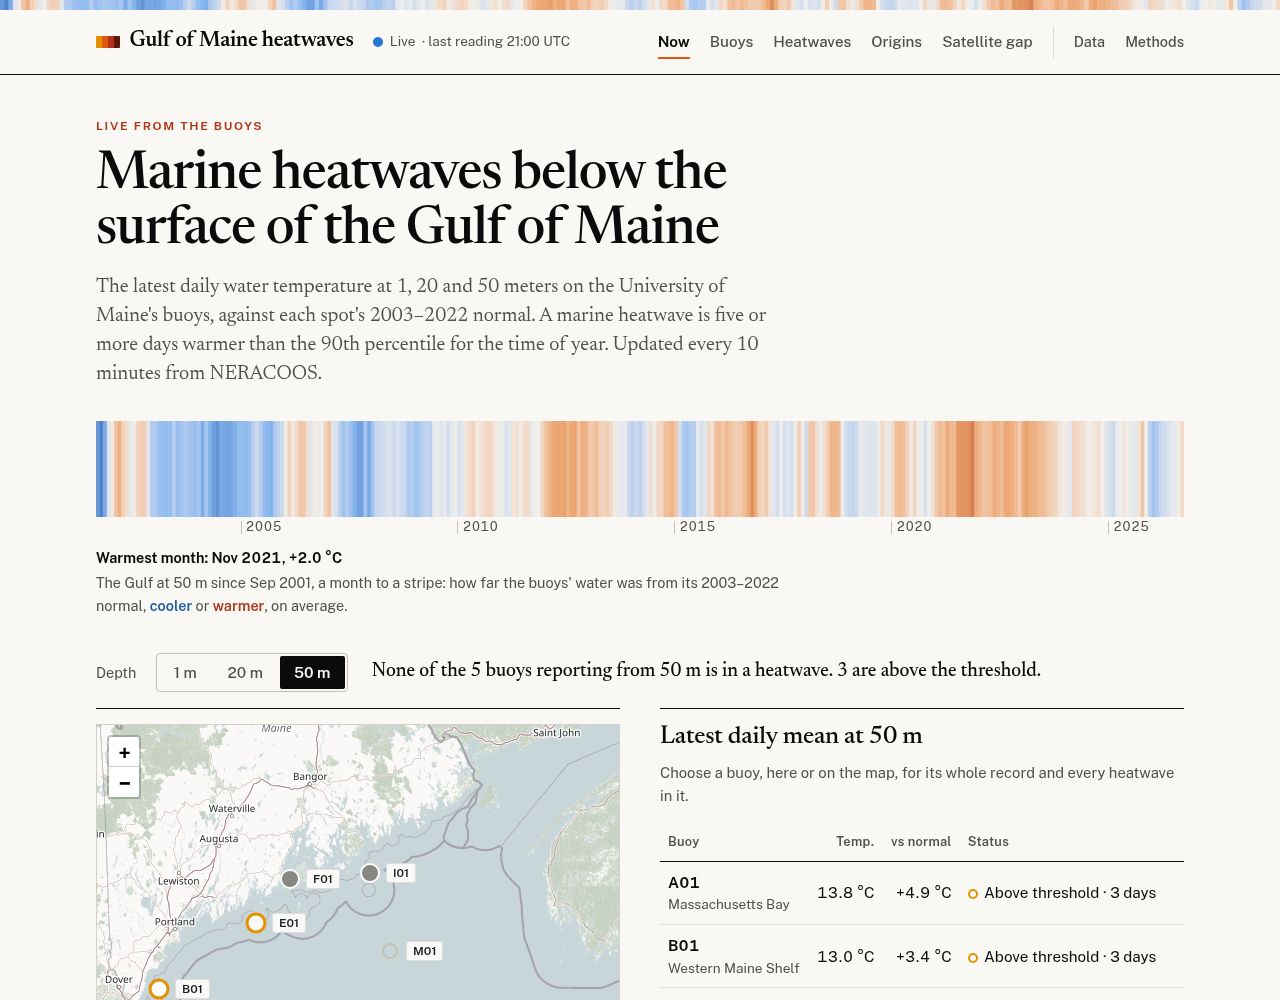
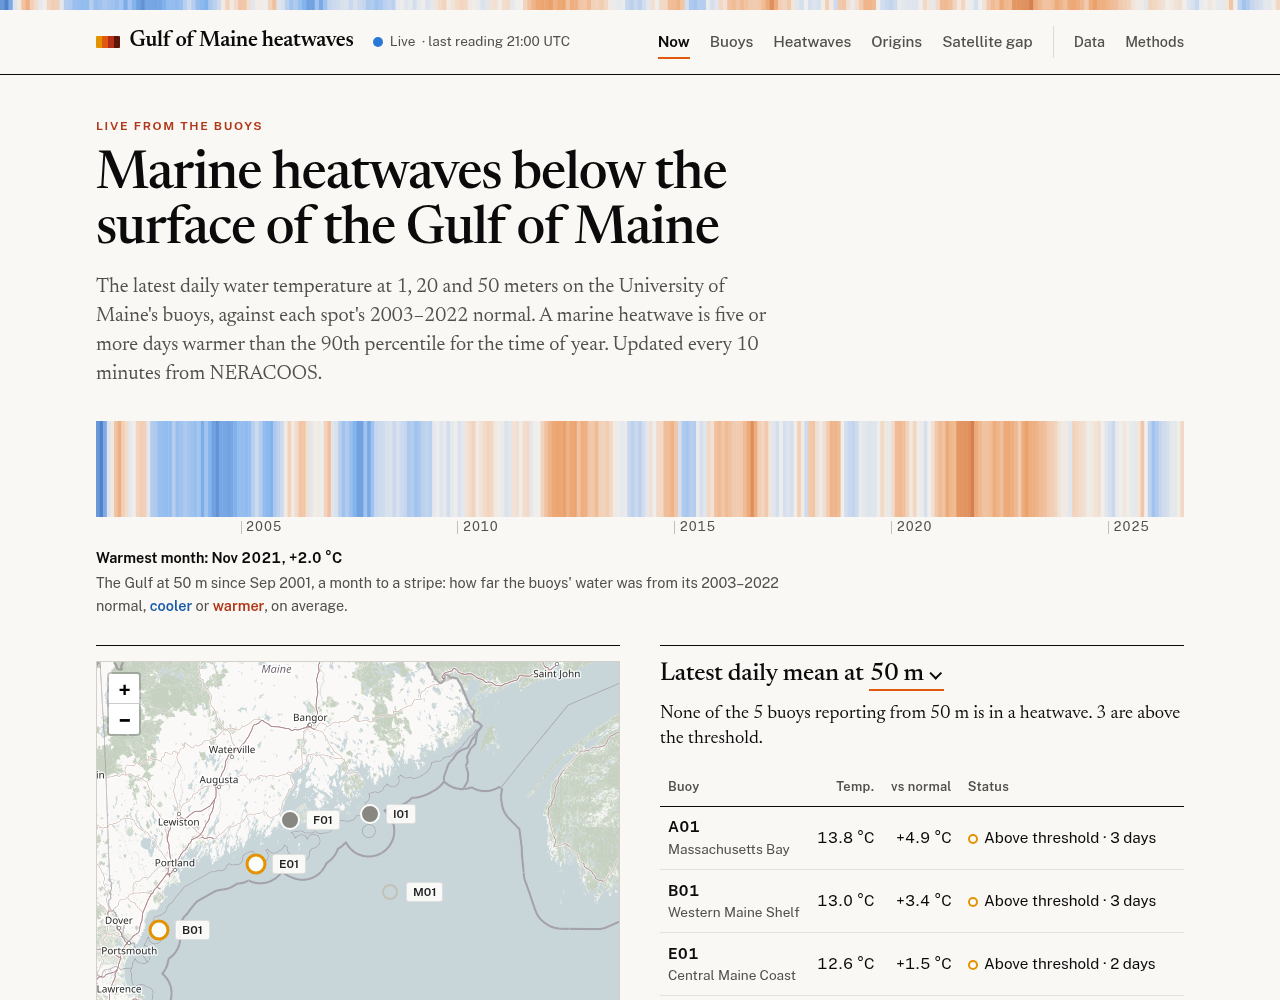
Now and Origins: choose the depth in the titles
The depth buttons above each page become a select inside the titles:
"Latest daily mean at [1 m]", "Heatwaves at [50 m] each year, by origin" and
"Every heatwave at [50 m] in [2021]", the year chosen the same way. The select
takes the title's type, underlined in the accent with a chevron, and sizes
to its choice. On Now, the line on how many buoys are in a heatwave moves
under the title, in place of the note on choosing a buoy.

diff --git a/frontend/src/pages/OriginsPage.tsx b/frontend/src/pages/OriginsPage.tsx
@@ -2,6 +2,7 @@ import { useCallback } from "react";
 import { Link, useSearchParams } from "react-router";
 
 import { useBuoys, useEvents, useOriginRules } from "../api/queries";
+import { InlineSelect } from "../components/InlineSelect";
 import { OriginsByYear } from "../components/OriginsByYear";
 import { YearByBuoy } from "../components/YearByBuoy";
 import { latest } from "../lib/dates";
@@ -38,6 +39,13 @@ export function OriginsPage() {
     [setParams],
   );
   const selectYear = useCallback((y: number) => update({ year: y }), [update]);
+  // Both titles choose the depth, each in its own words.
+  const depthChoice = {
+    label: "Depth",
+    value: depth,
+    options: depths.map((d) => ({ value: d, label: `${d} m` })),
+    onChange: (d: number) => update({ depth: d }),
+  };
 
   return (
     <>
@@ -52,19 +60,10 @@ export function OriginsPage() {
         </p>
       </section>
 
-      <div className="filters" role="group" aria-label="Depth">
-        <span className="filter-label">Depth</span>
-        <div className="segmented">
-          {depths.map((d) => (
-            <button key={d} type="button" aria-pressed={d === depth} onClick={() => update({ depth: d })}>
-              {d} m
-            </button>
-          ))}
-        </div>
-      </div>
-
       <section className="card figure">
-        <h2>Heatwaves at {depth} m each year, by origin</h2>
+        <h2>
+          Heatwaves at <InlineSelect {...depthChoice} /> each year, by origin
+        </h2>
         <p className="caption">
           By the year each began. Unclear is kept in view: it is where the signals disagree or the data are too thin.
           Click a year to see its heatwaves below.
@@ -77,19 +76,15 @@ export function OriginsPage() {
       </section>
 
       <section className="card figure">
-        <div className="detail-head">
-          <h2>Every heatwave at {depth} m in {year}</h2>
-          <label>
-            <span className="filter-label">Year </span>
-            <select className="select" value={year} onChange={(e) => update({ year: Number(e.target.value) })}>
-              {years.map((y) => (
-                <option key={y} value={y}>
-                  {y}
-                </option>
-              ))}
-            </select>
-          </label>
-        </div>
+        <h2>
+          Every heatwave at <InlineSelect {...depthChoice} /> in{" "}
+          <InlineSelect
+            label="Year"
+            value={year}
+            options={years.map((y) => ({ value: y, label: String(y) }))}
+            onChange={selectYear}
+          />
+        </h2>
         <p className="caption">
           Each buoy's year, top to bottom in the order slope water reaches them: in through the Northeast Channel, then
           west along the coast to Massachusetts Bay. Bars are heatwaves, colored by where their heat came from, under a

diff --git a/frontend/src/styles.css b/frontend/src/styles.css
@@ -110,6 +110,8 @@ main { counter-reset: figure; }
 
 .now { display: grid; grid-template-columns: minmax(0, 1fr) minmax(0, 1fr); gap: 2.5rem; margin-bottom: 3rem; }
 .now .card { margin-bottom: 0; }
+/* How many buoys are in a heatwave, under the title that chooses the depth. */
+.summary { margin: 0 0 1rem; font: 400 1.15rem/1.4 var(--serif); }
 @media (max-width: 860px) { .now { grid-template-columns: 1fr; gap: 3rem; } }
 
 .map-card { display: flex; flex-direction: column; }
@@ -128,9 +130,6 @@ main { counter-reset: figure; }
 @keyframes fade { from { opacity: 0.9; } to { opacity: 0; } }
 
 /* --- Filters: one row above what they scope --- */
-.toolbar { display: flex; flex-wrap: wrap; align-items: center; gap: 0.5rem 1.5rem; margin: 0.5rem 0 1rem; }
-.toolbar .filters { margin: 0; }
-.summary { margin: 0; font: 500 1.2rem/1.3 var(--serif); }
 .filters { display: flex; align-items: center; gap: 0.75rem 1.25rem; margin: 0.5rem 0 1rem; flex-wrap: wrap; }
 .filters label { display: inline-flex; align-items: center; gap: 0.5rem; }
 .filter-label { color: var(--ink-2); font-size: 0.9rem; }
@@ -142,6 +141,22 @@ main { counter-reset: figure; }
 .segmented button:hover, .presets button:hover { color: var(--ink); background: var(--neutral); }
 .segmented button[aria-pressed="true"], .presets button[aria-pressed="true"] { background: var(--ink); color: var(--page); font-weight: 600; }
 .presets button { font-size: 0.875rem; padding: 0.25rem 0.75rem; }
+/* A choice inside a title or sentence: in the text's own type, underlined in the accent, with a chevron. */
+.inline-select { position: relative; display: inline-block; white-space: nowrap; }
+.inline-select select {
+  appearance: none; -webkit-appearance: none; field-sizing: content;
+  font: inherit; color: inherit; letter-spacing: inherit; line-height: inherit;
+  margin: 0; padding: 0 0.8em 0 0.05em; border: 0; border-bottom: 2px solid var(--accent); border-radius: 0;
+  background: none; cursor: pointer;
+}
+.inline-select select:hover { color: var(--accent-ink); }
+.inline-select select:focus-visible { outline: 2px solid var(--accent); outline-offset: 2px; }
+.inline-select option { font: 1rem var(--sans); color: var(--ink); }
+.inline-select::after {
+  content: ""; position: absolute; right: 0.12em; top: 50%; width: 0.3em; height: 0.3em;
+  border-right: 2px solid currentColor; border-bottom: 2px solid currentColor;
+  transform: translateY(-75%) rotate(45deg); pointer-events: none;
+}
 .select { font: inherit; padding: 0.3rem 0.6rem; border: 1px solid var(--axis); border-radius: var(--radius); background: var(--surface); color: var(--ink); }
 .select:hover { border-color: var(--ink-2); }
 .link-button {

diff --git a/frontend/src/pages/NowPage.tsx b/frontend/src/pages/NowPage.tsx
@@ -3,6 +3,7 @@ import { Navigate, useNavigate, useSearchParams } from "react-router";
 import { useBuoys } from "../api/queries";
 import { BuoyMap } from "../components/BuoyMap";
 import { ConditionsTable } from "../components/ConditionsTable";
+import { InlineSelect } from "../components/InlineSelect";
 import { StateLegend } from "../components/StateBadge";
 import { StripesFigure } from "../components/Stripes";
 import { heatwaveSummary } from "../lib/state";
@@ -34,27 +35,6 @@ export function NowPage() {
         <StripesFigure />
       </section>
 
-      <div className="toolbar">
-        <div className="filters" role="group" aria-label="Depth">
-          <span className="filter-label">Depth</span>
-          <div className="segmented">
-            {DEPTHS.map((depth) => (
-              <button key={depth} type="button" aria-pressed={depth === view.depth} onClick={() => update({ depth })}>
-                {depth} m
-              </button>
-            ))}
-          </div>
-        </div>
-        {buoys.data && (
-          <p className="summary" aria-live="polite">
-            {heatwaveSummary(
-              buoys.data.flatMap((b) => b.series.filter((s) => s.depth === view.depth)),
-              view.depth,
-            )}
-          </p>
-        )}
-      </div>
-
       {buoys.isPending ? (
         <p className="note">Loading…</p>
       ) : buoys.isError ? (
@@ -70,8 +50,21 @@ export function NowPage() {
             </figcaption>
           </figure>
           <div className="card">
-            <h2>Latest daily mean at {view.depth} m</h2>
-            <p className="caption">Choose a buoy, here or on the map, for its whole record and every heatwave in it.</p>
+            <h2>
+              Latest daily mean at{" "}
+              <InlineSelect
+                label="Depth"
+                value={view.depth}
+                options={DEPTHS.map((depth) => ({ value: depth, label: `${depth} m` }))}
+                onChange={(depth) => update({ depth })}
+              />
+            </h2>
+            <p className="summary" aria-live="polite">
+              {heatwaveSummary(
+                buoys.data.flatMap((b) => b.series.filter((s) => s.depth === view.depth)),
+                view.depth,
+              )}
+            </p>
             <ConditionsTable buoys={buoys.data} depth={view.depth} pathFor={pathFor} />
           </div>
         </section>

diff --git a/frontend/src/components/InlineSelect.test.tsx b/frontend/src/components/InlineSelect.test.tsx
@@ -1,0 +1,28 @@
+import { cleanup, fireEvent, render, screen } from "@testing-library/react";
+import { afterEach, describe, expect, it, vi } from "vitest";
+
+import { InlineSelect } from "./InlineSelect";
+
+afterEach(cleanup);
+
+describe("InlineSelect", () => {
+  it("shows the value in use and hands back the chosen one as it was given, not as text", () => {
+    const onChange = vi.fn();
+    render(
+      <h2>
+        Latest daily mean at{" "}
+        <InlineSelect
+          label="Depth"
+          value={1}
+          options={[1, 20, 50].map((d) => ({ value: d, label: `${d} m` }))}
+          onChange={onChange}
+        />
+      </h2>,
+    );
+    const select = screen.getByRole("combobox", { name: "Depth" }) as HTMLSelectElement;
+    expect(select.selectedOptions[0].textContent).toBe("1 m");
+
+    fireEvent.change(select, { target: { value: "50" } });
+    expect(onChange).toHaveBeenCalledExactlyOnceWith(50);
+  });
+});

diff --git a/frontend/src/components/InlineSelect.tsx b/frontend/src/components/InlineSelect.tsx
@@ -1,0 +1,27 @@
+interface Option<T> {
+  value: T;
+  label: string;
+}
+
+interface Props<T extends string | number> {
+  /** The select's accessible name: the words the sentence around it leaves out, such as "Depth". */
+  label: string;
+  value: T;
+  options: Option<T>[];
+  onChange: (value: T) => void;
+}
+
+/** A choice made inside a title or sentence, set in the text's own type. */
+export function InlineSelect<T extends string | number>({ label, value, options, onChange }: Props<T>) {
+  return (
+    <span className="inline-select">
+      <select aria-label={label} value={value} onChange={(e) => onChange(options[e.target.selectedIndex].value)}>
+        {options.map((option) => (
+          <option key={option.value} value={option.value}>
+            {option.label}
+          </option>
+        ))}
+      </select>
+    </span>
+  );
+}
